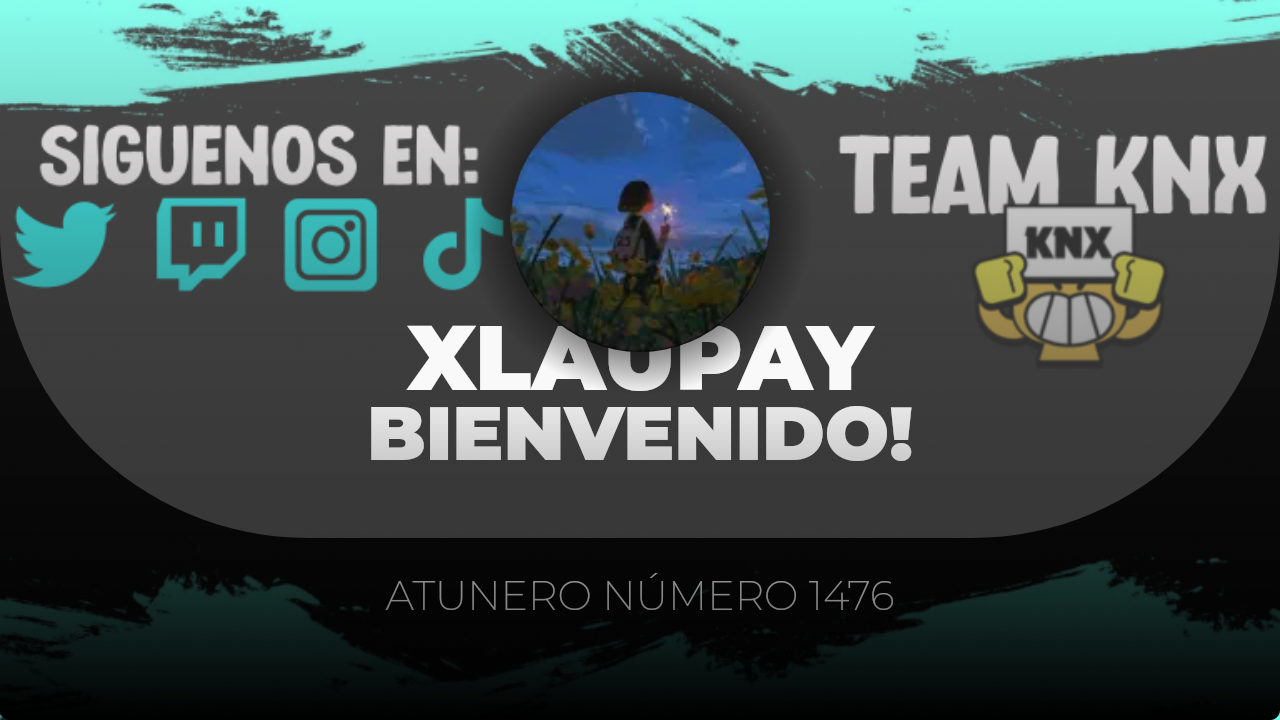
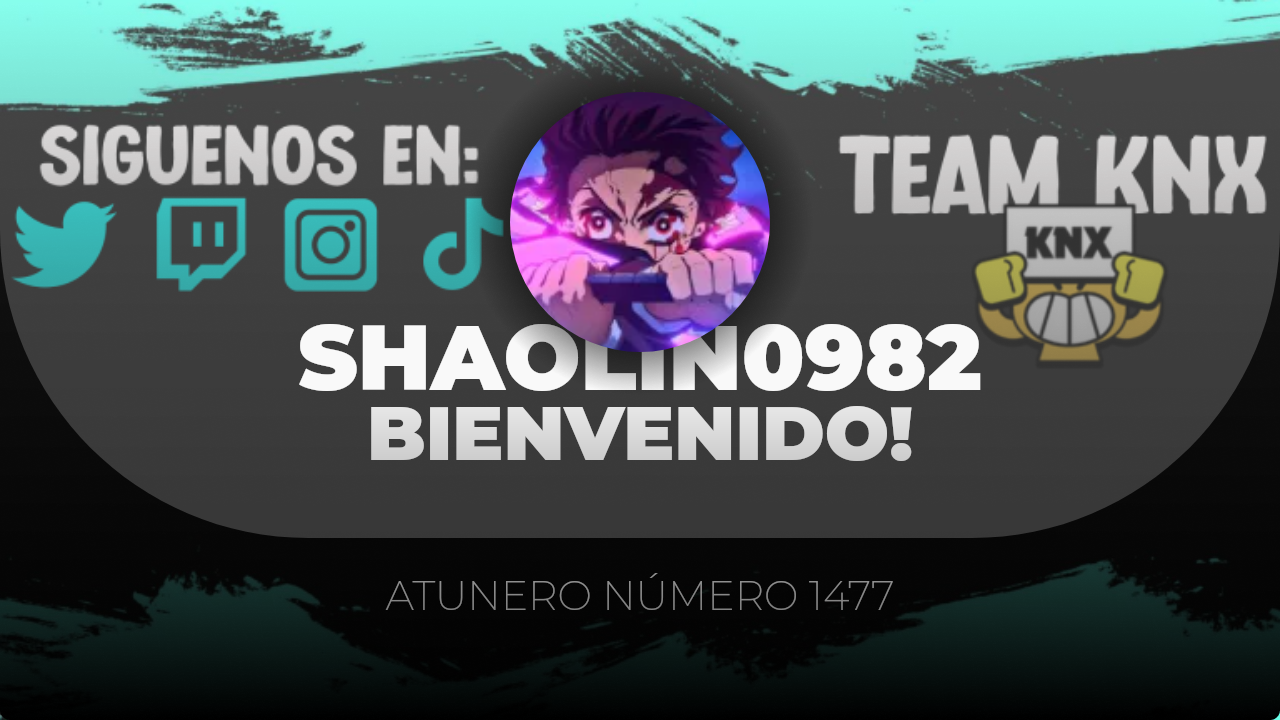
Cambios

Changed region(s): [[0.2188, 0.1222, 0.7812, 0.55], [0.6875, 0.825, 0.7188, 0.8556]]

diff --git a/comandos/Administración/Administrador.js b/comandos/Administración/Administrador.js
@@ -1,0 +1,48 @@
+const { SlashCommandBuilder, PermissionsBitField, EmbedBuilder, ActionRowBuilder, ButtonBuilder, ButtonStyle } = require('discord.js')
+
+module.exports = {
+    data: new SlashCommandBuilder()
+    .setName('administrador')
+    .setDescription('Comandos de Administrador')
+    .setDefaultMemberPermissions(PermissionsBitField.Flags.Administrator)
+    .addSubcommandGroup(group => 
+        group
+        .setName('rol')
+        .setDescription('Comandos de Rol')
+        .addSubcommand(subcommand => 
+            subcommand
+            .setName('agregar')
+            .setDescription('Agrega rol a miembro')
+            .addRoleOption(option =>
+                option
+                .setName('rol')
+                .setDescription('Rol que deseas agregar')
+                .setRequired(true)
+            )
+            .addUserOption(option =>
+                option
+                .setName('miembro')
+                .setDescription('El miembro al que deseas agregar')
+            )
+        )
+    ),
+
+    async execute(interaction, client) {
+
+        if (interaction.options.getSubcommandGroup() == 'rol') {
+
+            if (interaction.options.getSubcommand() == 'agregar') {
+
+                const miembro = interaction.options.getMember('miembro')
+                const rol = interaction.options.getRole('rol')
+
+                const embed = new EmbedBuilder()
+                .setTitle(`Agregado rol a ${miembro.user.displayName}`)
+                .setDescription(`Se ha agregado ${rol} a ${miembro}`)
+                .setColor('Blurple')
+                miembro.roles.add(rol.id)
+                interaction.reply({ embeds: [embed]})
+            }
+        }
+    }
+}

diff --git a/index.js b/index.js
@@ -91,7 +91,7 @@ const {
       .setName(member.user.username)
       .setAvatar(member.user.displayAvatarURL({ format: 'png' }))
       .setMessage(`Atunero número ${cantidad}`)
-      .setBackground('https://media.discordapp.net/attachments/936591912079618089/1182024680882847915/Prueba_final.png?ex=65833144&is=6570bc44&hm=247a4be6b6967abbdb956c7560c8f37065f8246dbe934bcb12543d2318ec81fb&=&format=webp&quality=lossless&width=768&height=432')
+      .setBackground('https://media.discordapp.net/attachments/936591912079618089/1182724414744318172/Plantilla_KNXSecond.png?ex=6585bcf2&is=657347f2&hm=1715a710ed7939c3845acea0d5dc7d181150b6996a5d96a9d467461973b03d9c&=&format=webp&quality=lossless&width=768&height=432')
       .setColor('f9f9f9')
       .setTitle('Bienvenido!')
 
